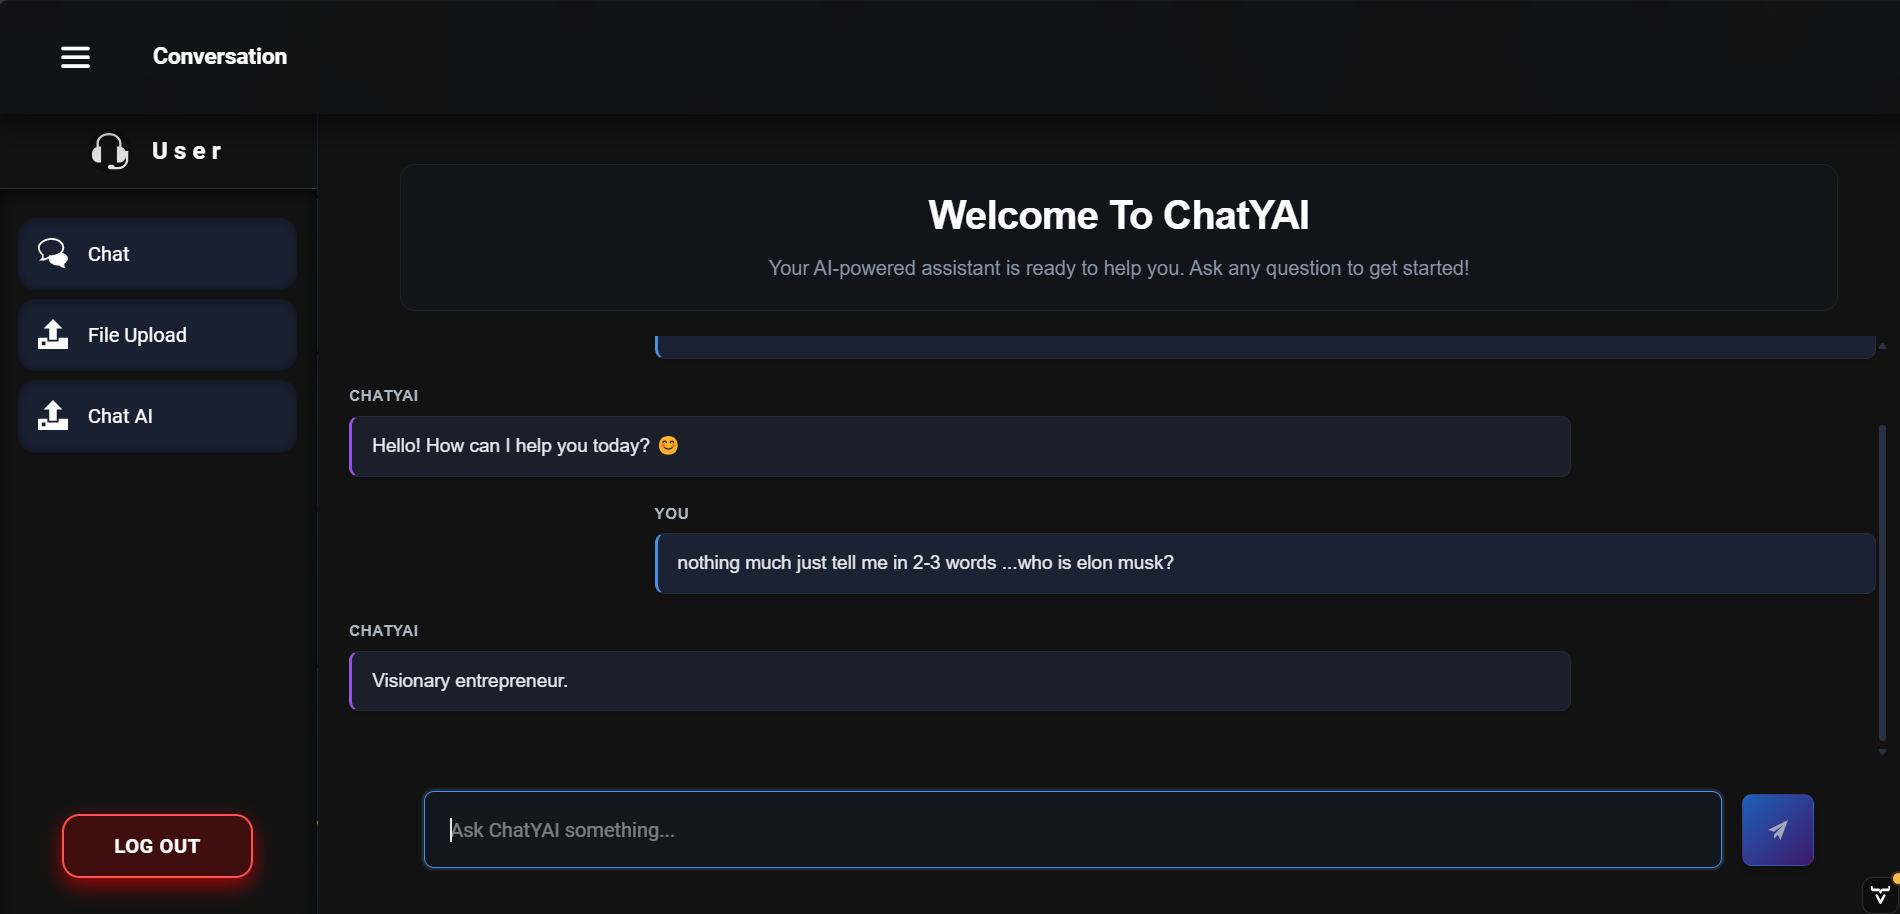
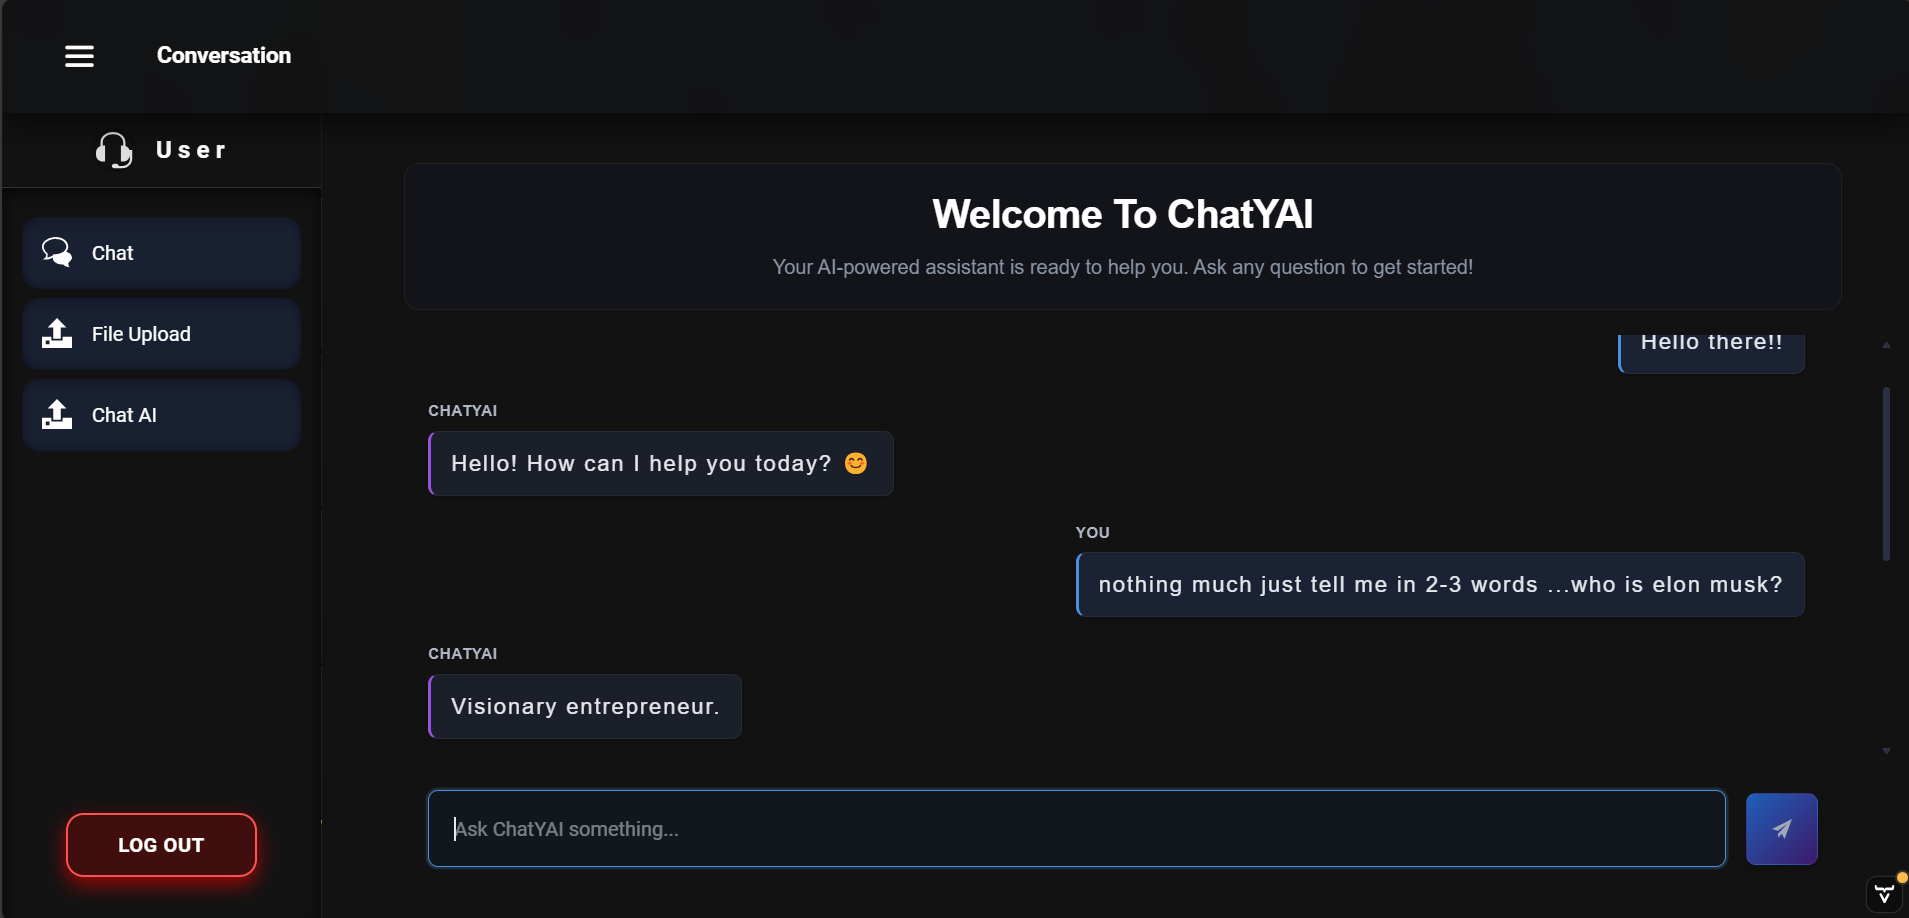
small Ui change

diff --git a/src/main/frontend/themes/chatappgroupproject/views/ai-chat-view.css b/src/main/frontend/themes/chatappgroupproject/views/ai-chat-view.css
@@ -55,7 +55,7 @@
 .messages-area {
     flex-grow: 1;
     overflow-y: auto;
-    padding: 20px 0;
+    padding: 20px 60px;
     scrollbar-width: thin;
     scrollbar-color: #2A3242 transparent;
 }
@@ -72,6 +72,7 @@
 .message-bubble {
     margin-bottom: 20px;
     max-width: 80%;
+    width: fit-content;
 }
 
 .message-bubble.user {
@@ -94,8 +95,9 @@
 .content-div {
     padding: 12px 16px;
     border-radius: 8px;
-    font-size: 0.95rem;
+    font-size: 1.1rem;
     line-height: 1.5;
+    letter-spacing: 1.5px;
     background: #12161F;
     border: 1px solid rgba(255, 255, 255, 0.05);
     box-shadow: 0 2px 4px rgba(0, 0, 0, 0.2);
